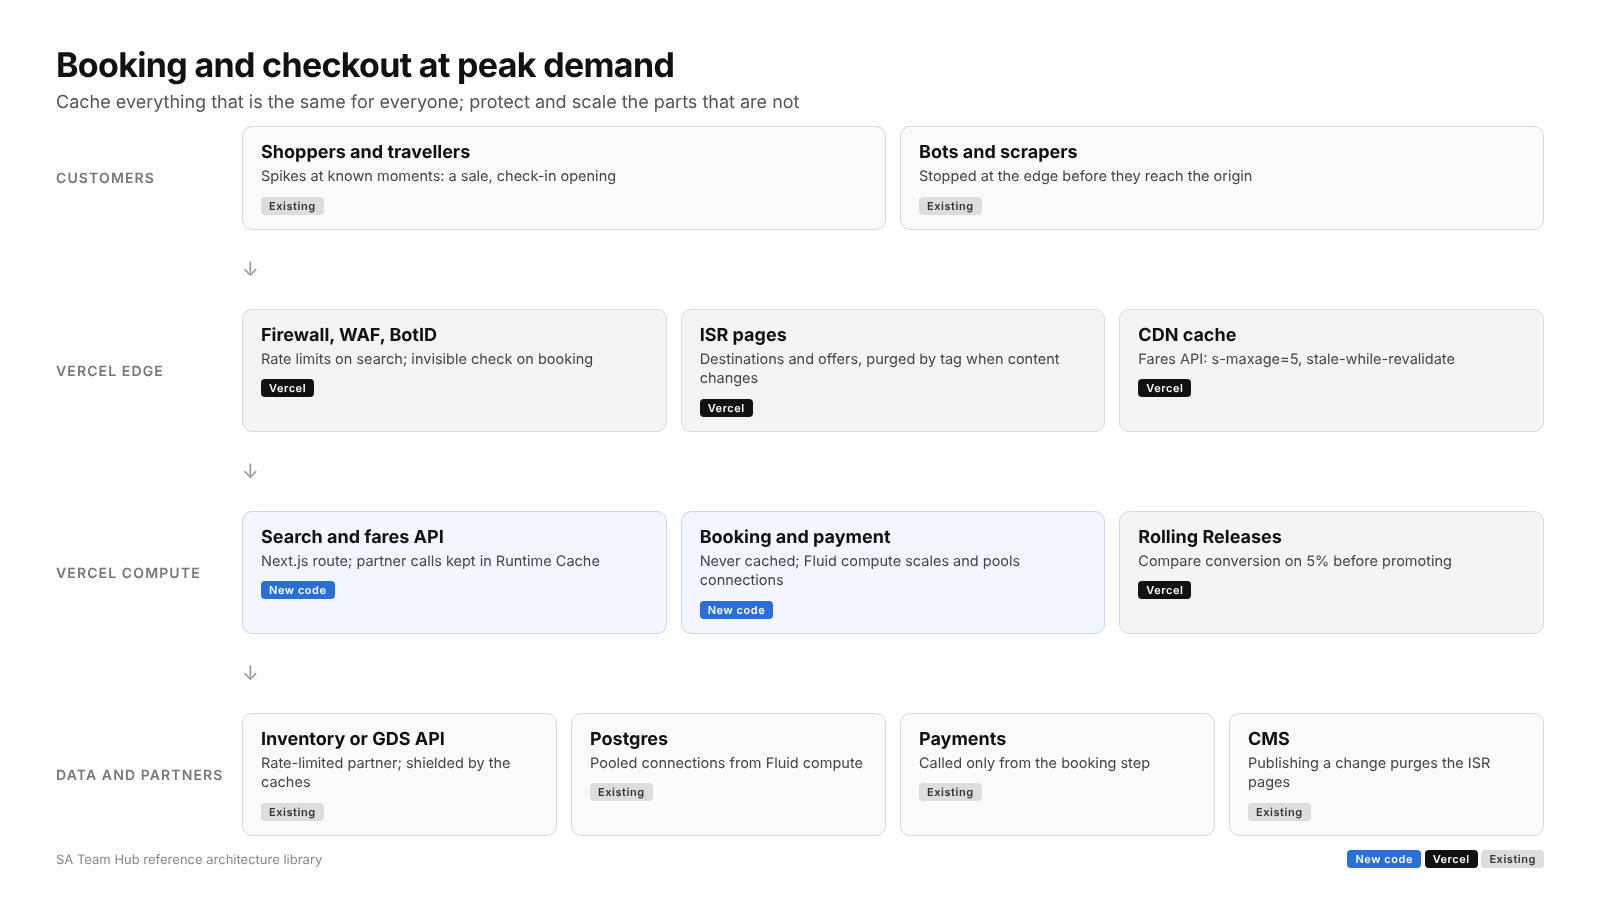
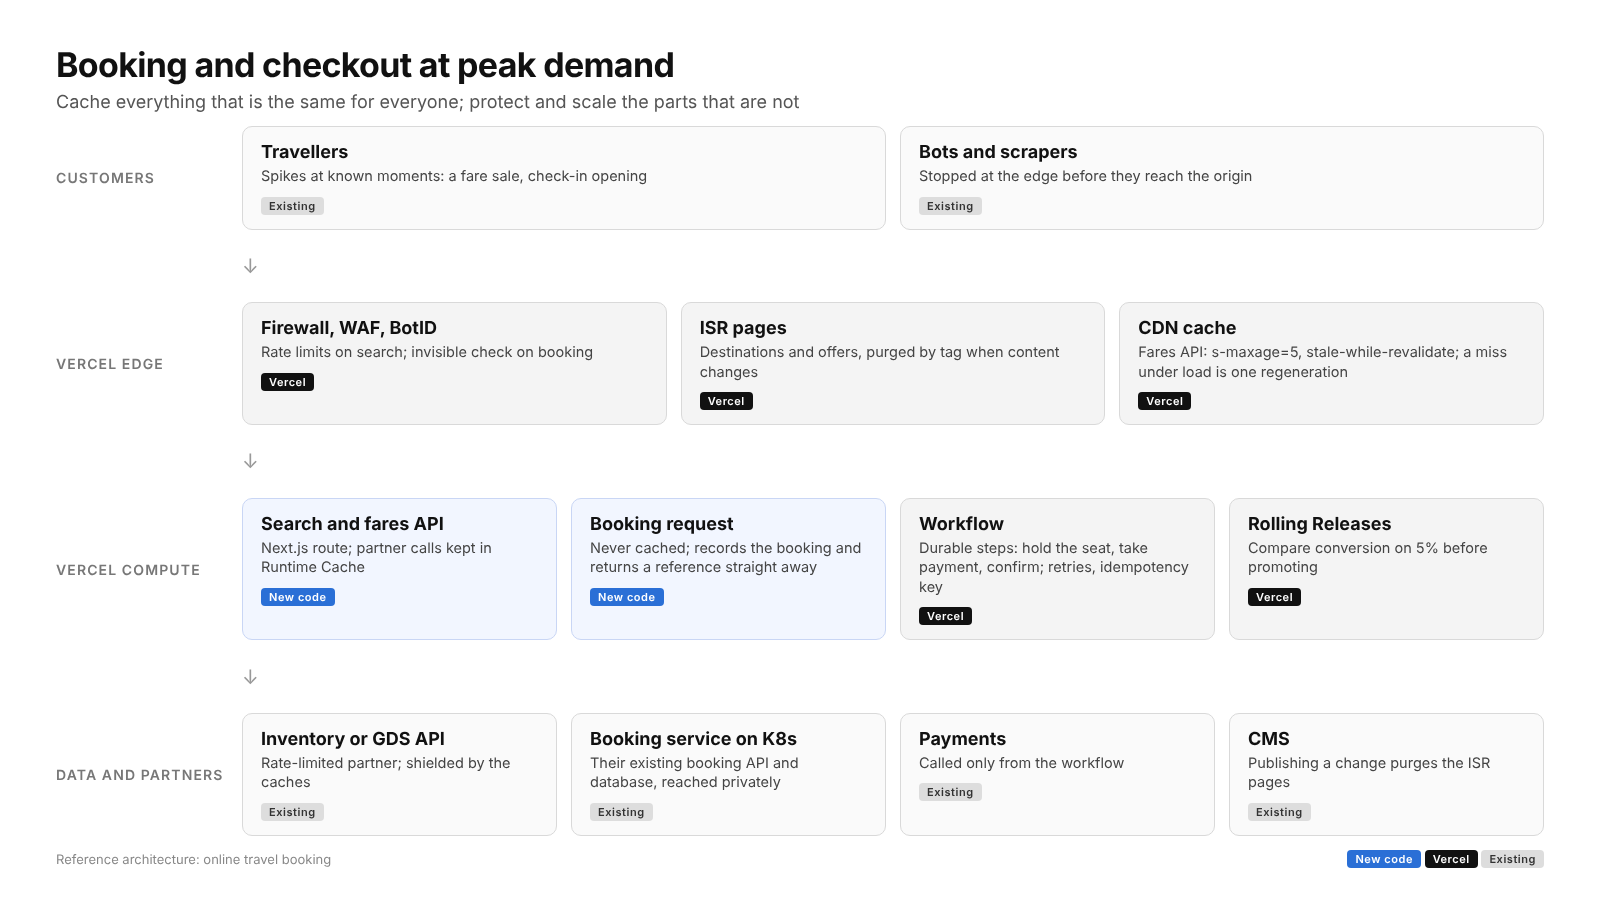
Geist and WCAG AA compliance

diff --git a/db/setup.ts b/db/setup.ts
@@ -347,15 +347,17 @@ const architectures = [
     id: "peak-traffic-booking",
     title: "Booking and checkout at peak demand",
     summary: "Cache everything that's the same for everyone; protect and scale the parts that aren't.",
-    problem: "Traffic spikes at known moments, such as a sale or check-in opening, slow booking down and overload the database and partner APIs. Bots scrape fares and hold inventory.",
+    problem: "Traffic spikes at known moments, such as a fare sale or check-in opening, slow booking down and overload the booking service and partner APIs. Bots scrape fares and hold inventory.",
     approach:
-      "Content pages (destinations, offers, products) use ISR: served from the CDN and purged by tag when the CMS publishes. " +
+      "Content pages (destinations, hotels, offers) use ISR: served from the CDN and purged by tag when the CMS publishes. " +
       "Search and fares are an API cached at the CDN for a few seconds with stale-while-revalidate, and its calls to the inventory system sit in the Runtime Cache. " +
-      "Booking and payment are never cached: Fluid compute scales them and reuses database connections, and BotID plus WAF rate limits keep bots out. Changes ship behind Rolling Releases and are promoted on conversion.",
+      "Booking is never cached, and the booking request only records it with the existing booking service (on Kubernetes, reached privately) and returns a reference. A Workflow then holds the seat with the GDS, takes payment and confirms, as durable steps that retry, so a slow partner doesn't fail the booking. " +
+      "Fluid compute scales the functions, and BotID plus WAF rate limits keep bots out. Changes ship behind Rolling Releases and are promoted on conversion.",
     when_to_use: "Predictable spikes, read-heavy search in front of a slow or rate-limited backend, and bot pressure on high-value routes.",
     watch_outs:
-      "Never cache a response that sets a cookie or varies by user. Load test with the real spike shape before the event, not after. Size the database pool for Fluid compute's concurrency.",
-    products: ["ISR", "CDN cache", "Runtime Cache", "Fluid compute", "BotID", "WAF", "Rolling Releases"],
+      "Never cache a response that sets a cookie or varies by user. Concurrency ramps by up to 1,000 per 10 seconds per region, so an instant spike needs little work per request. Workflow steps can run more than once: pass an idempotency key to the GDS and payment calls. " +
+      "Skew Protection doesn't pin full-page navigations by default; pin checkout sessions with the __vdpl cookie. Load testing is Enterprise only and booked with Vercel in advance. Agree a request limit with the booking service team, since Vercel scales faster than it does.",
+    products: ["ISR", "CDN cache", "Runtime Cache", "Fluid compute", "Workflow", "BotID", "WAF", "Rolling Releases", "Skew Protection"],
     author_id: "daniel-okafor",
   },
   {

diff --git a/app/(hub)/_ui.tsx b/app/(hub)/_ui.tsx
@@ -38,9 +38,9 @@ export function Stat({
       <div
         className={cn(
           "mt-1 font-semibold text-2xl tabular-nums",
-          tone === "good" && "text-emerald-600",
-          tone === "warn" && "text-amber-600",
-          tone === "bad" && "text-red-600",
+          tone === "good" && "text-good",
+          tone === "warn" && "text-warn",
+          tone === "bad" && "text-bad",
         )}
       >
         {value}
@@ -56,29 +56,29 @@ export function Stat({
 }
 
 const PILL: Record<string, string> = {
-  high: "bg-red-100 text-red-800",
-  medium: "bg-amber-100 text-amber-800",
-  low: "bg-emerald-100 text-emerald-800",
-  on_track: "bg-emerald-100 text-emerald-800",
-  at_risk: "bg-amber-100 text-amber-800",
-  overdue: "bg-red-100 text-red-800",
-  done: "bg-slate-100 text-slate-700",
-  complete: "bg-emerald-100 text-emerald-800",
-  in_progress: "bg-amber-100 text-amber-800",
-  not_started: "bg-slate-100 text-slate-600",
-  next_focus: "bg-white text-amber-700 ring-1 ring-amber-400",
-  pending_approval: "bg-amber-100 text-amber-800",
-  approved: "bg-emerald-100 text-emerald-800",
-  rejected: "bg-slate-100 text-slate-600",
-  pending: "bg-amber-100 text-amber-800",
-  accepted: "bg-emerald-100 text-emerald-800",
-  declined: "bg-slate-100 text-slate-600",
-  expired: "bg-slate-100 text-slate-600",
+  high: "bg-bad-soft text-bad",
+  medium: "bg-warn-soft text-warn",
+  low: "bg-good-soft text-good",
+  on_track: "bg-good-soft text-good",
+  at_risk: "bg-warn-soft text-warn",
+  overdue: "bg-bad-soft text-bad",
+  done: "bg-muted text-foreground",
+  complete: "bg-good-soft text-good",
+  in_progress: "bg-warn-soft text-warn",
+  not_started: "bg-muted text-muted-foreground",
+  next_focus: "bg-card text-warn ring-1 ring-warn/60",
+  pending_approval: "bg-warn-soft text-warn",
+  approved: "bg-good-soft text-good",
+  rejected: "bg-muted text-muted-foreground",
+  pending: "bg-warn-soft text-warn",
+  accepted: "bg-good-soft text-good",
+  declined: "bg-muted text-muted-foreground",
+  expired: "bg-muted text-muted-foreground",
 };
 
 export function Pill({ value, label }: { readonly value: string; readonly label?: string }) {
   return (
-    <span className={cn("inline-block whitespace-nowrap rounded-full px-2 py-0.5 font-medium text-xs", PILL[value] ?? "bg-slate-100 text-slate-700")}>
+    <span className={cn("inline-block whitespace-nowrap rounded-full px-2 py-0.5 font-medium text-xs", PILL[value] ?? "bg-muted text-foreground")}>
       {label ?? value.replaceAll("_", " ")}
     </span>
   );

diff --git a/app/(hub)/deals/page.tsx b/app/(hub)/deals/page.tsx
@@ -21,7 +21,7 @@ function Deliverables({ done }: { readonly done: DealRow["deliverables"] }) {
           <span
             className={cn(
               "inline-flex items-center justify-center gap-1 whitespace-nowrap rounded-full px-2 py-0.5 text-xs",
-              complete ? "bg-emerald-100 font-medium text-emerald-800" : "text-muted-foreground ring-1 ring-border",
+              complete ? "bg-good-soft font-medium text-good" : "text-muted-foreground ring-1 ring-border",
             )}
             key={d}
             title={`${DELIVERABLE_LABEL[d]}: ${complete ? "done" : "not done yet"}`}
@@ -35,7 +35,7 @@ function Deliverables({ done }: { readonly done: DealRow["deliverables"] }) {
 }
 
 function Score({ value }: { readonly value: number }) {
-  const tone = value >= 80 ? "bg-emerald-500" : value >= 50 ? "bg-amber-500" : "bg-rose-500";
+  const tone = value >= 80 ? "bg-good" : value >= 50 ? "bg-warn" : "bg-bad";
   return (
     <div className="flex items-center gap-2">
       <span className="w-7 text-right font-semibold tabular-nums">{value}</span>
@@ -111,10 +111,10 @@ async function DealsBody({ viewer, actor, params, quarter }: { readonly viewer: 
           {deals.map((d) => (
             <tr key={d.id}>
               <Td className="font-medium">{d.account}</Td>
-              <Td className={alignmentFlag(d.presales_stage, d.forecast) ? "whitespace-nowrap font-medium text-amber-700" : "whitespace-nowrap"}>
+              <Td className={alignmentFlag(d.presales_stage, d.forecast) ? "whitespace-nowrap font-medium text-warn" : "whitespace-nowrap"}>
                 {LABEL[d.presales_stage]}
               </Td>
-              <Td className={alignmentFlag(d.presales_stage, d.forecast) ? "whitespace-nowrap font-medium text-amber-700" : "whitespace-nowrap"}>
+              <Td className={alignmentFlag(d.presales_stage, d.forecast) ? "whitespace-nowrap font-medium text-warn" : "whitespace-nowrap"}>
                 {LABEL[d.forecast]}
               </Td>
               <Td className="tabular-nums">{usd.format(d.acv_usd)}</Td>
@@ -125,7 +125,7 @@ async function DealsBody({ viewer, actor, params, quarter }: { readonly viewer: 
                 {d.next_step}
                 <div className="text-muted-foreground text-xs">updated {d.days_since_update} days ago</div>
               </Td>
-              <Td className="text-amber-700">{d.flags.join("; ")}</Td>
+              <Td className="text-warn">{d.flags.join("; ")}</Td>
             </tr>
           ))}
         </Table>

diff --git a/app/(hub)/settings/page.tsx b/app/(hub)/settings/page.tsx
@@ -37,7 +37,7 @@ export default async function SettingsPage({ searchParams }: { readonly searchPa
           </fieldset>
           <div className="flex items-center gap-3">
             <Button type="submit">Save</Button>
-            {params.saved ? <span className="text-emerald-600 text-sm">Saved. New chats will use {modelLabel(setting.model)}.</span> : null}
+            {params.saved ? <span className="text-good text-sm">Saved. New chats will use {modelLabel(setting.model)}.</span> : null}
             {!params.saved && setting.updated_by_name ? (
               <span className="text-muted-foreground text-xs">
                 Last changed by {setting.updated_by_name}, {setting.updated_at}
@@ -68,8 +68,8 @@ export default async function SettingsPage({ searchParams }: { readonly searchPa
             <Button type="submit" variant="outline">
               Save
             </Button>
-            {params.budgetSaved ? <span className="text-emerald-600 text-sm">Saved.</span> : null}
-            {params.budgetError ? <span className="text-red-600 text-sm">{String(params.budgetError)}</span> : null}
+            {params.budgetSaved ? <span className="text-good text-sm">Saved.</span> : null}
+            {params.budgetError ? <span className="text-bad text-sm">{String(params.budgetError)}</span> : null}
           </div>
         </form>
       </Section>
@@ -81,8 +81,8 @@ export default async function SettingsPage({ searchParams }: { readonly searchPa
             the same access as the web app. In any shared channel everyone, managers included, gets SA-level access only, so talent data never
             appears where others can read it.
           </p>
-          {params.slackError ? <p className="text-red-600 text-sm">{String(params.slackError)}</p> : null}
-          {params.slackSaved ? <p className="text-emerald-600 text-sm">Saved.</p> : null}
+          {params.slackError ? <p className="text-bad text-sm">{String(params.slackError)}</p> : null}
+          {params.slackSaved ? <p className="text-good text-sm">Saved.</p> : null}
           <Table head={["Person", "Role", "Slack member ID"]}>
             {links.map((p) => (
               <tr key={p.id}>

diff --git a/app/(hub)/skills/_skills-by-row.tsx b/app/(hub)/skills/_skills-by-row.tsx
@@ -30,21 +30,21 @@ function Segments({ level }: { readonly level: number }) {
 function StatusIcon({ status }: { readonly status: Status }) {
   if (status === "complete")
     return (
-      <svg aria-label="Complete" className="inline size-4 text-emerald-600" viewBox="0 0 16 16">
+      <svg aria-label="Complete" className="inline size-4 text-good" viewBox="0 0 16 16">
         <circle cx="8" cy="8" fill="currentColor" r="8" />
         <path d="M4.5 8.2l2.2 2.2 4.8-4.8" fill="none" stroke="white" strokeLinecap="round" strokeLinejoin="round" strokeWidth="1.8" />
       </svg>
     );
   if (status === "in_progress")
     return (
-      <svg aria-label="In progress" className="inline size-4 text-amber-500" viewBox="0 0 16 16">
+      <svg aria-label="In progress" className="inline size-4 text-warn" viewBox="0 0 16 16">
         <circle cx="8" cy="8" fill="none" r="6.5" stroke="currentColor" strokeWidth="2" />
         <path d="M8 1.5a6.5 6.5 0 0 1 0 13z" fill="currentColor" />
       </svg>
     );
   // Next focus: the same ring as In progress, not yet filled.
   return (
-    <svg aria-label={STATUS_LABEL[status]} className={cn("inline size-4", status === "next_focus" ? "text-amber-500" : "text-slate-300 dark:text-slate-600")} viewBox="0 0 16 16">
+    <svg aria-label={STATUS_LABEL[status]} className={cn("inline size-4", status === "next_focus" ? "text-warn" : "text-slate-300 dark:text-slate-600")} viewBox="0 0 16 16">
       <circle cx="8" cy="8" fill="none" r="6.5" stroke="currentColor" strokeWidth="2" />
     </svg>
   );

diff --git a/app/globals.css b/app/globals.css
@@ -17,6 +17,13 @@
   --color-accent: var(--accent);
   --color-accent-foreground: var(--accent-foreground);
   --color-destructive: var(--destructive);
+  /* Status colours: text and marks, plus a soft background for pills. Always paired with a label. */
+  --color-good: var(--good);
+  --color-good-soft: var(--good-soft);
+  --color-warn: var(--warn);
+  --color-warn-soft: var(--warn-soft);
+  --color-bad: var(--bad);
+  --color-bad-soft: var(--bad-soft);
   --color-border: var(--border);
   --color-input: var(--input);
   --color-ring: var(--ring);
@@ -54,6 +61,12 @@
   --input: oklch(0.916 0 0);
   --ring: oklch(0.708 0 0);
   --radius: 0.625rem;
+  --good: oklch(0.508 0.118 165.612);
+  --good-soft: oklch(0.95 0.052 163.051);
+  --warn: oklch(0.555 0.163 48.998);
+  --warn-soft: oklch(0.962 0.059 95.617);
+  --bad: oklch(0.505 0.213 27.518);
+  --bad-soft: oklch(0.936 0.032 17.717);
 }
 
 @media (prefers-color-scheme: dark) {
@@ -77,6 +90,12 @@
     --border: oklch(1 0 0 / 10%);
     --input: oklch(1 0 0 / 15%);
     --ring: oklch(0.556 0 0);
+    --good: oklch(0.845 0.143 164.978);
+    --good-soft: oklch(0.262 0.051 172.552);
+    --warn: oklch(0.879 0.169 91.605);
+    --warn-soft: oklch(0.279 0.077 45.635);
+    --bad: oklch(0.808 0.114 19.571);
+    --bad-soft: oklch(0.258 0.092 26.042);
   }
 }
 

diff --git a/app/(hub)/page.tsx b/app/(hub)/page.tsx
@@ -113,7 +113,7 @@ async function HomeBody({ viewer, actor, params }: { readonly viewer: Viewer; re
           <ul className="divide-y rounded-xl border bg-card text-sm">
             {actions.slice(0, 8).map((a, i) => (
               <li className="flex gap-3 p-3" key={`${a.kind}-${a.title}-${i}`}>
-                <span className={a.urgent ? "mt-1.5 size-2 shrink-0 rounded-full bg-amber-500" : "mt-1.5 size-2 shrink-0 rounded-full bg-muted-foreground/30"} />
+                <span className={a.urgent ? "mt-1.5 size-2 shrink-0 rounded-full bg-warn" : "mt-1.5 size-2 shrink-0 rounded-full bg-muted-foreground/30"} />
                 <div className="min-w-0">
                   <Link className="font-medium underline-offset-2 hover:underline" href={to(a.href)}>
                     {a.title}

diff --git a/app/(hub)/accounts/page.tsx b/app/(hub)/accounts/page.tsx
@@ -12,8 +12,8 @@ import { AdoptionKey, AdoptionMark, UsageSparkline } from "./_parts";
 const usd = new Intl.NumberFormat("en-US", { style: "currency", currency: "USD", maximumFractionDigits: 0 });
 const HEALTH_PILL = { healthy: "low", watch: "medium", at_risk: "high" } as const; // reuses the green, amber and red pills
 const FOCUS = {
-  save: { label: "Save", className: "text-red-700" },
-  grow: { label: "Grow", className: "text-emerald-700" },
+  save: { label: "Save", className: "text-bad" },
+  grow: { label: "Grow", className: "text-good" },
   renew: { label: "Renew", className: "text-muted-foreground" },
 } as const;
 const CHAMPION_PILL = { champion: "complete", potential: "next_focus", user: "not_started" } as const;

diff --git a/app/(hub)/compete/_parts.tsx b/app/(hub)/compete/_parts.tsx
@@ -8,7 +8,7 @@ export function dealCount(card: Pick<Battlecard, "open_deals" | "won_deals">): s
 
 export function Points({ title, items, tone }: { readonly title: string; readonly items: readonly string[]; readonly tone?: "them" | "us" }) {
   return (
-    <div className={tone === "us" ? "space-y-2 rounded-xl border border-emerald-300/60 bg-card p-4" : "space-y-2 rounded-xl border bg-card p-4"}>
+    <div className={tone === "us" ? "space-y-2 rounded-xl border border-good/40 bg-card p-4" : "space-y-2 rounded-xl border bg-card p-4"}>
       <h2 className="font-medium">{title}</h2>
       <ul className="list-disc space-y-1.5 pl-5 text-muted-foreground text-sm leading-relaxed">
         {items.map((item) => (

diff --git a/app/(hub)/skills/page.tsx b/app/(hub)/skills/page.tsx
@@ -133,7 +133,7 @@ async function SkillsBody({ viewer, actor, params }: { readonly viewer: Viewer; 
                 {g.min_level ? <div className="font-normal text-muted-foreground text-xs">{g.min_level} or above</div> : null}
               </Td>
               <Td className="text-muted-foreground">{g.reason}</Td>
-              <Td className={cn("whitespace-nowrap tabular-nums", g.short_by > 0 && "font-medium text-red-600")}>
+              <Td className={cn("whitespace-nowrap tabular-nums", g.short_by > 0 && "font-medium text-bad")}>
                 {g.have} / {g.needed}
               </Td>
               <Td>{g.qualified.join(", ") || (viewer.role === "manager" ? "Nobody yet" : "")}</Td>

diff --git a/app/(hub)/usage/page.tsx b/app/(hub)/usage/page.tsx
@@ -303,7 +303,7 @@ function BudgetView({ budget, days, end }: { readonly budget: number | null; rea
         <Stat href="/settings#budget" label="Budget" value={budget ? usd0.format(budget) : "Not set"} />
       </div>
       <p
-        className={`rounded-xl border bg-card p-4 font-medium text-sm ${verdict.tone === "bad" ? "text-red-600" : verdict.tone === "warn" ? "text-amber-600" : verdict.tone === "good" ? "text-emerald-600" : ""}`}
+        className={`rounded-xl border bg-card p-4 font-medium text-sm ${verdict.tone === "bad" ? "text-bad" : verdict.tone === "warn" ? "text-warn" : verdict.tone === "good" ? "text-good" : ""}`}
       >
         {verdict.text}
       </p>

diff --git a/app/(hub)/talent/page.tsx b/app/(hub)/talent/page.tsx
@@ -117,7 +117,7 @@ export default async function TalentPage({ searchParams }: { readonly searchPara
                 </Td>
                 <Td>{c.focus}</Td>
                 <Td>{c.stage}</Td>
-                <Td className={c.days_since_contact > 30 ? "whitespace-nowrap text-amber-700" : "whitespace-nowrap text-muted-foreground"}>
+                <Td className={c.days_since_contact > 30 ? "whitespace-nowrap text-warn" : "whitespace-nowrap text-muted-foreground"}>
                   {c.days_since_contact} days ago
                 </Td>
                 <Td>{c.notes}</Td>
